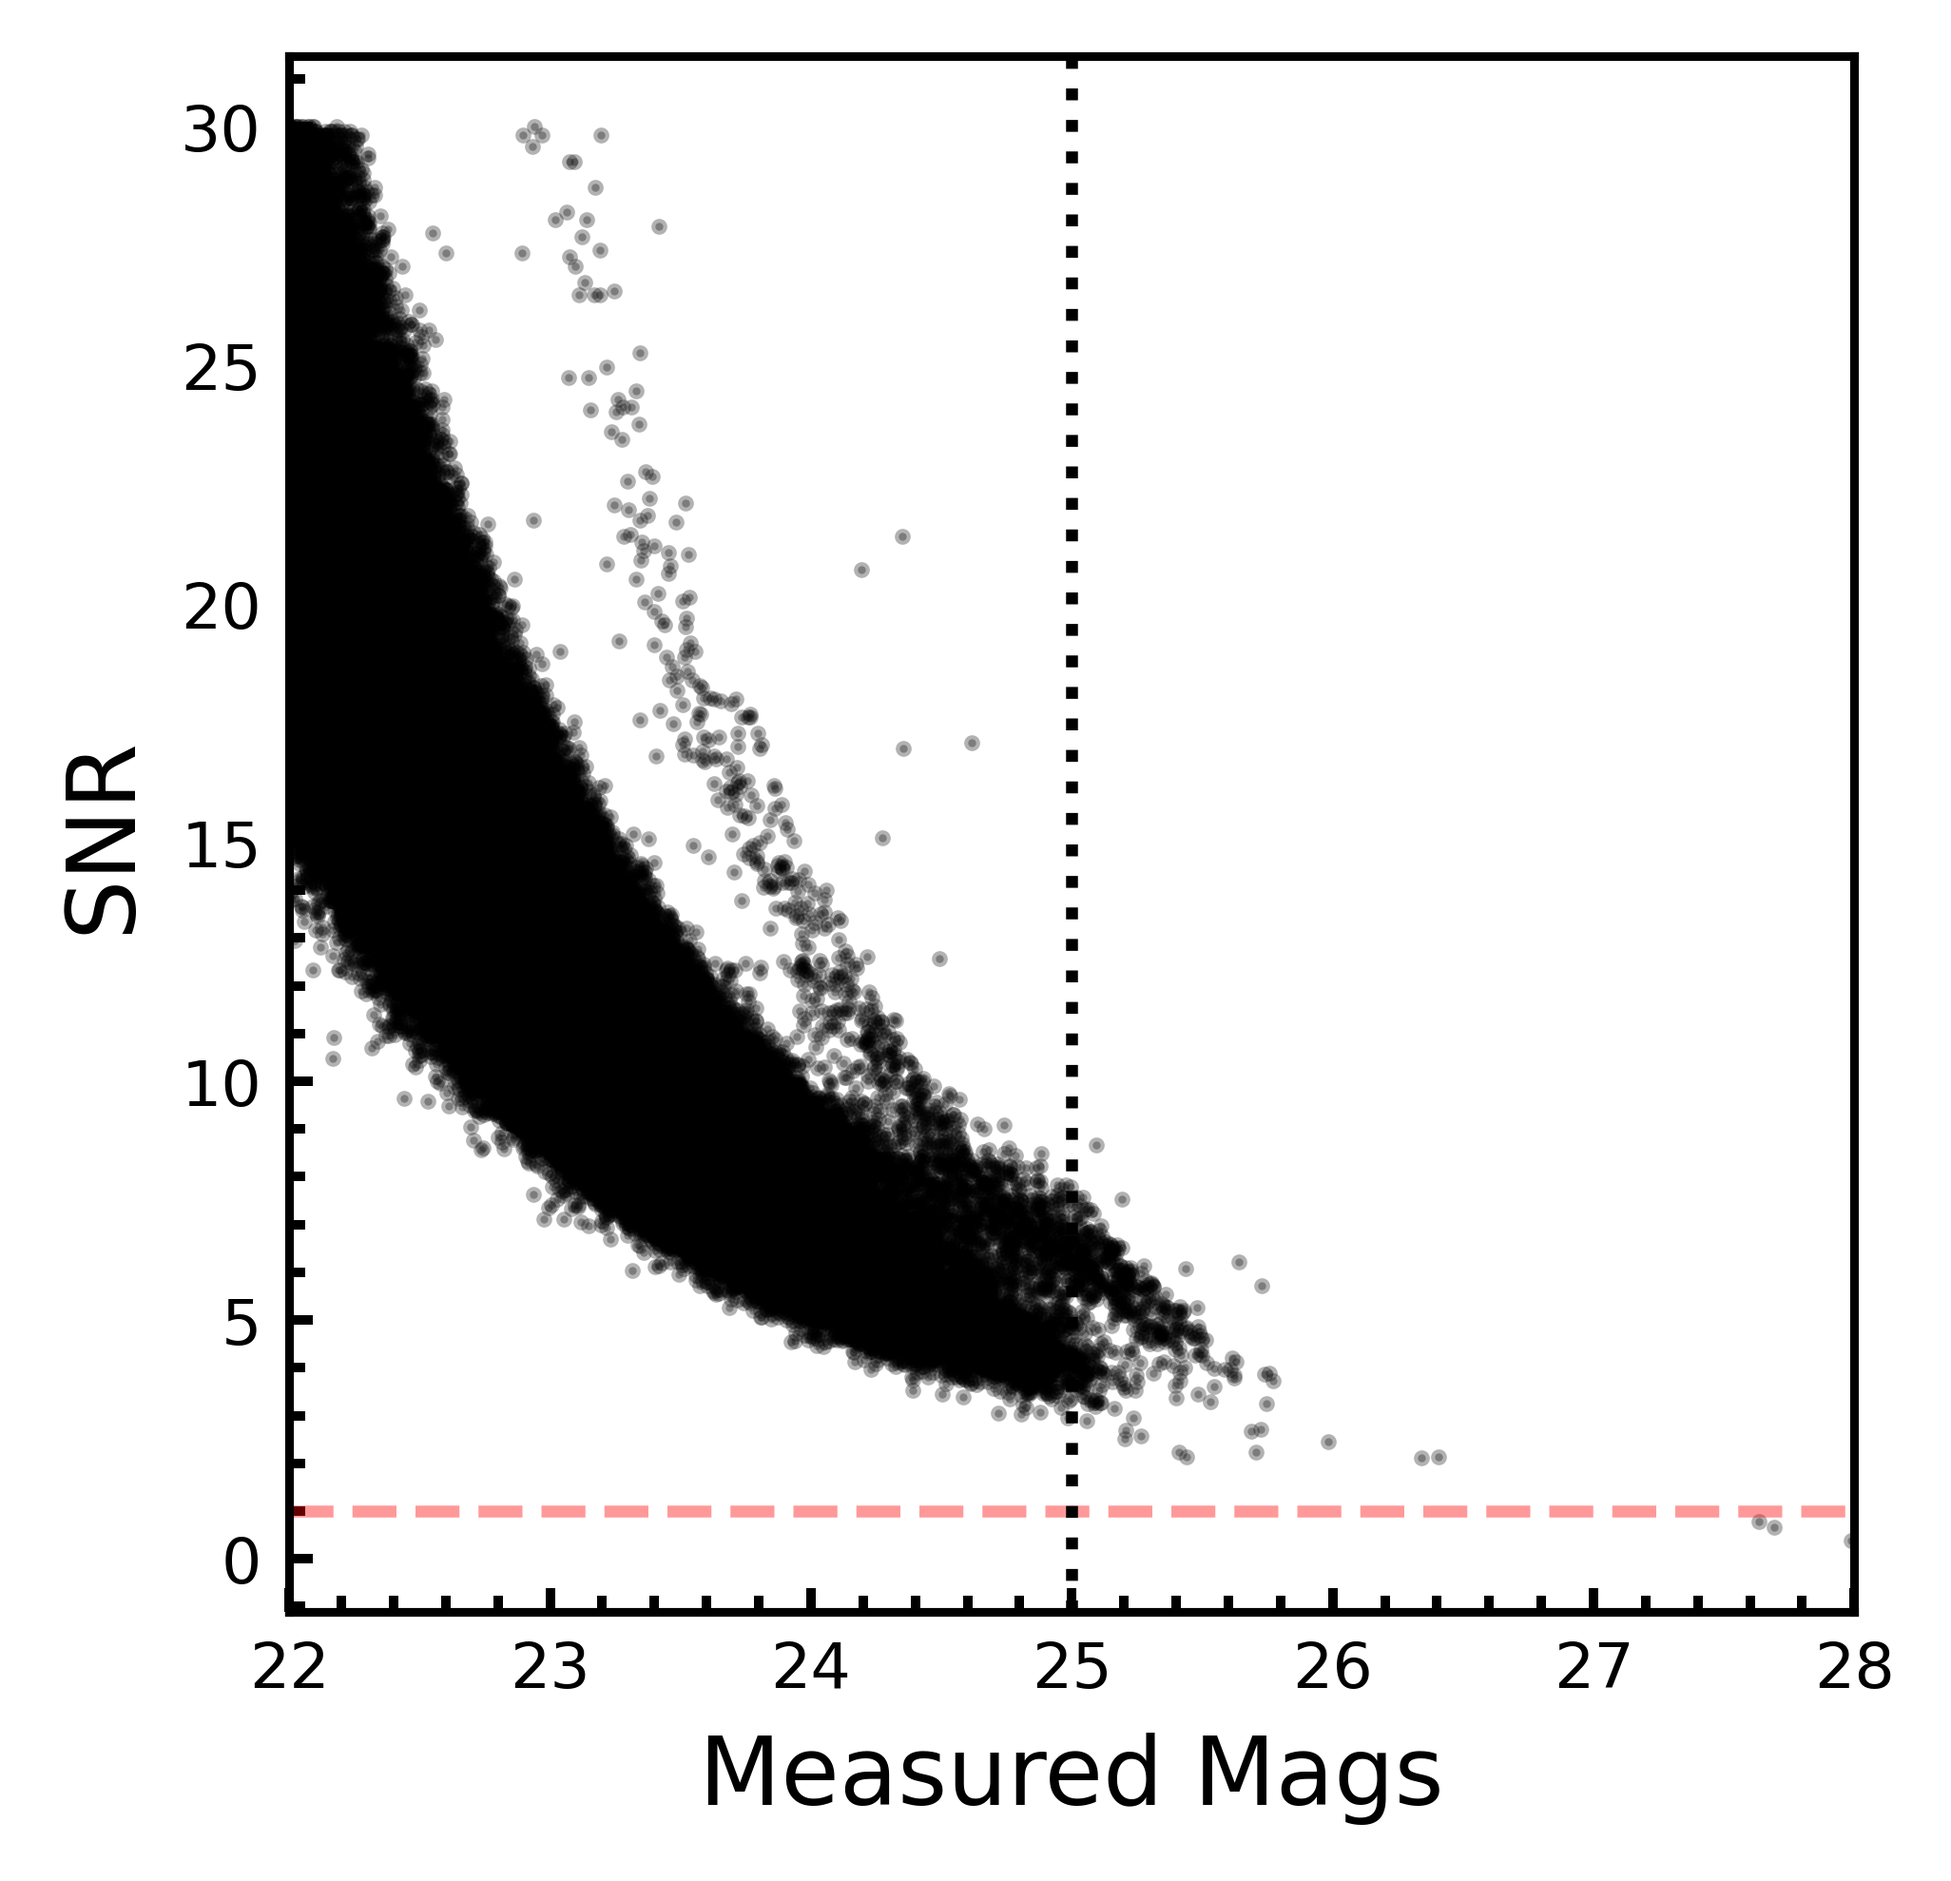
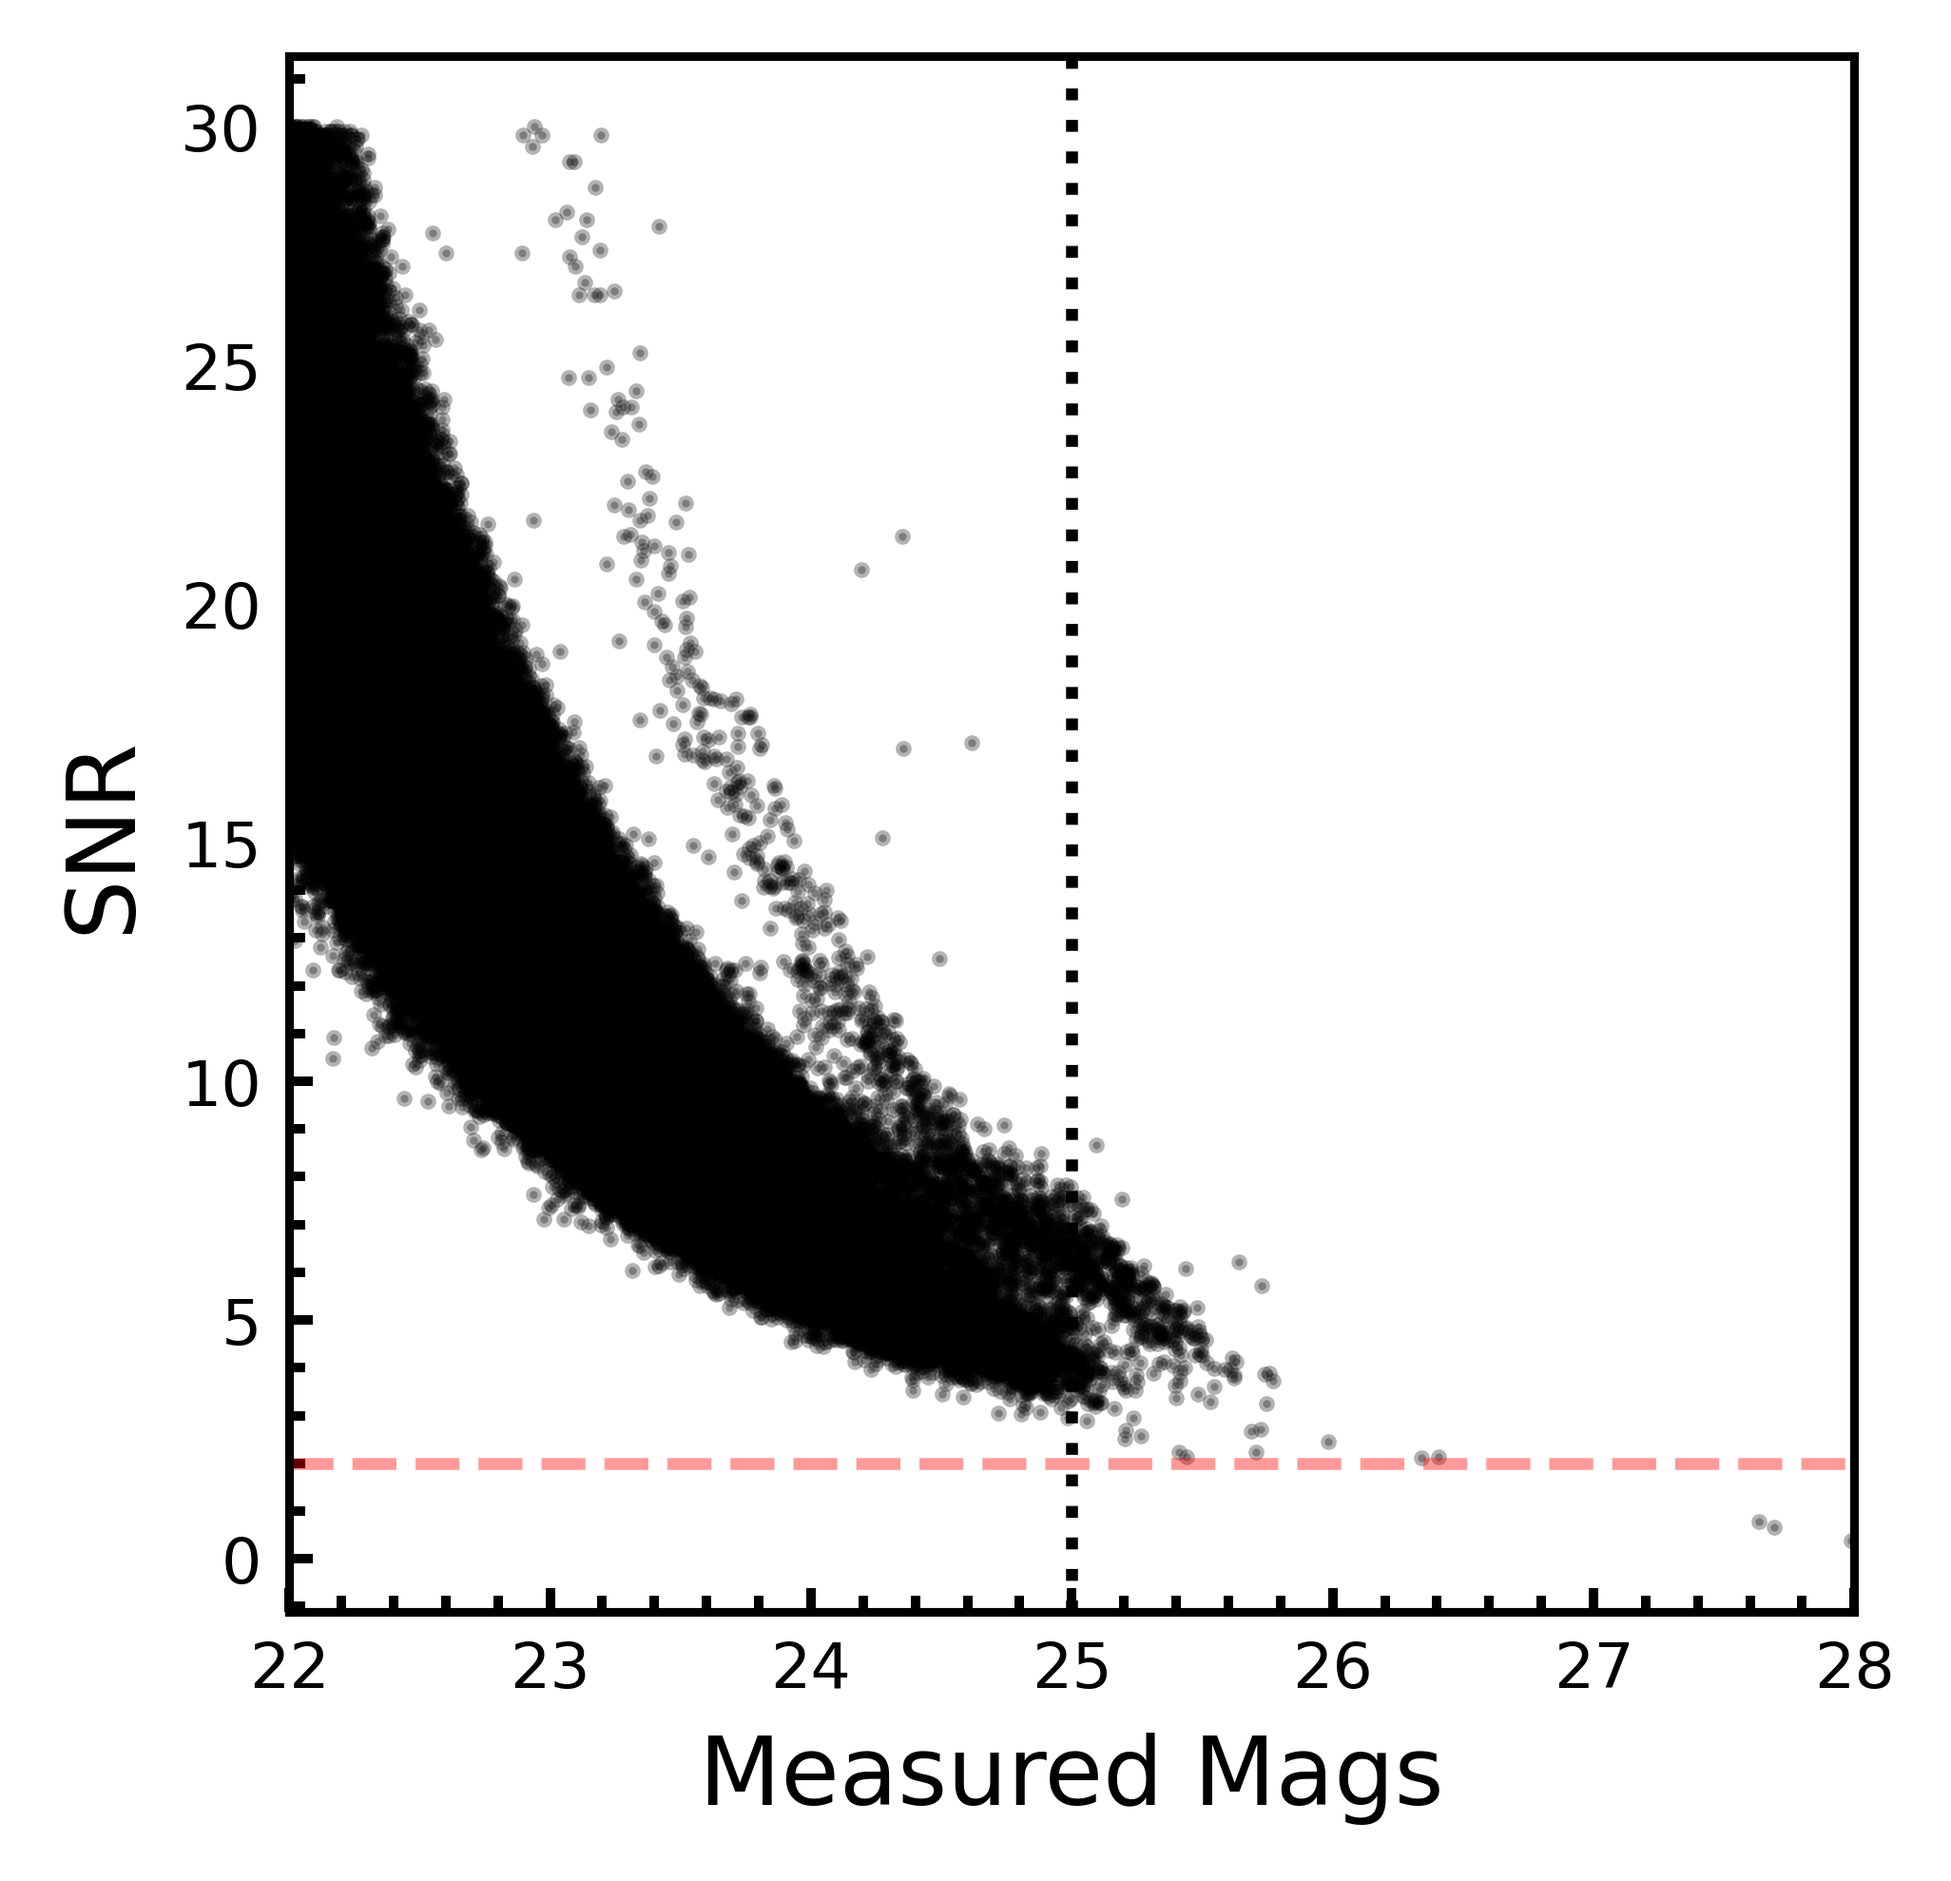
Updating candidates for ease of use.

Changed region(s): [[0.1559, 0.771, 0.9357, 0.8327]]

diff --git a/identify_candidates_v2.py b/identify_candidates_v2.py
@@ -7,14 +7,14 @@ import numpy as np
 from astropy.coordinates import SkyCoord
 import astropy.units as u
 from astropy.io import fits
+import pylab as plt
 
 import convert_sexcat_into_region as con
 import postage_stamps as ps
 from gui import start_gui
 from zero_points import zero_points
 
-#RED_LIST_NAME = 'candidates_red_list.txt'
-RED_LIST_NAME = 'candidates_red_list_cdfs.txt'
+
 
 
 def calculate_snr(mag_err: float) -> float:
@@ -46,25 +46,25 @@ def write_region_file(ra_array:np.array, dec_array:np.array, outfile:str, size:f
         file.write(f'circle {pos} {size}" # width=4\n')
     file.close()
 
-def update_candidate_red_list(ra_array: np.ndarray, dec_array: np.ndarray):
+def update_candidate_red_list(ra_array: np.ndarray, dec_array: np.ndarray, red_list: str):
     """Updates the red list of candidates which are banned from processing. (obvious artificats)"""
-    with open(RED_LIST_NAME,'a+', encoding='utf8') as file:
+    with open(red_list,'a+', encoding='utf8') as file:
         file.write('\n')
         for i, _ in enumerate(ra_array):
             file.write(f'{ra_array[i]} {dec_array[i]} \n')
 
-def get_red_values():
+def get_red_values(red_list:str):
     """Reads in the ra and dec of the red sources. (Not allowed to be used)"""
     try:
-        ra_rejected, dec_rejected = np.loadtxt(RED_LIST_NAME, unpack=True)
+        ra_rejected, dec_rejected = np.loadtxt(red_list, unpack=True)
     except (OSError, ValueError):
-        warnings.warn(f'{RED_LIST_NAME} not found or empty. Assuming there are no rejects.')
+        warnings.warn(f'{red_list} not found or empty. Assuming there are no rejects.')
         ra_rejected, dec_rejected = np.array([]), np.array([])
     return ra_rejected, dec_rejected
 
-def remove_bad_values(ra_array, dec_array):
+def remove_bad_values(ra_array: np.ndarray, dec_array: np.ndarray, red_list:str):
     """Removes the previously rejected ra and dec values from the current candidates."""
-    ra_bad, dec_bad = get_red_values()
+    ra_bad, dec_bad = get_red_values(red_list)
 
     catalog = SkyCoord(ra = ra_array*u.deg, dec = dec_array*u.deg)
     c_bad = SkyCoord(ra = ra_bad *u.deg, dec = dec_bad * u.deg)
@@ -80,28 +80,29 @@ def remove_bad_values(ra_array, dec_array):
 
 
 if __name__ == '__main__':
-    #Dont forget to select the correct candidates red list above.
     #Our data
-    #INFILE_N964 = '../correct_stacks/N964/n964.cat'
-    #INFILE_N964_135 = '../correct_stacks/N964/n964_135.cat'
-    #INFILE_I = '../correct_stacks/N964/i.cat'
-    #INFILE_Z = '../correct_stacks/N964/z.cat'
-    #IMAGES = (
-    #    '../correct_stacks/N964/i.fits',
-    #    '../correct_stacks/N964/z.fits',
-    #    '../correct_stacks/N964/n964.fits',
-    #)
+    RED_LIST_NAME = 'candidates_red_list.txt'
+    INFILE_N964 = '../correct_stacks/N964/n964.cat'
+    INFILE_N964_135 = '../correct_stacks/N964/n964_135.cat'
+    INFILE_I = '../correct_stacks/N964/i.cat'
+    INFILE_Z = '../correct_stacks/N964/z.cat'
+    IMAGES = (
+        '../correct_stacks/N964/i.fits',
+        '../correct_stacks/N964/z.fits',
+        '../correct_stacks/N964/n964.fits',
+    )
 
     #CDFS
-    INFILE_N964 = '../CDFS_LAGER/n964_cdfs.cat'
-    INFILE_N964_135 = '../CDFS_LAGER/n964_135_cdfs.cat'
-    INFILE_I = '../CDFS_LAGER/i_cdfs.cat'
-    INFILE_Z = '../CDFS_LAGER/z_cdfs.cat'
-    IMAGES = (
-    '../CDFS_LAGER/i.fits',
-    '../CDFS_LAGER/z.fits',
-    '../CDFS_LAGER/n964.fits',
-    )
+    #RED_LIST_NAME = 'candidates_red_list_cdfs.txt'
+    #INFILE_N964 = '../CDFS_LAGER/n964_cdfs.cat'
+    #INFILE_N964_135 = '../CDFS_LAGER/n964_135_cdfs.cat'
+    #INFILE_I = '../CDFS_LAGER/i_cdfs.cat'
+    #INFILE_Z = '../CDFS_LAGER/z_cdfs.cat'
+    #IMAGES = (
+    #'../CDFS_LAGER/i.fits',
+    #'../CDFS_LAGER/z.fits',
+    #'../CDFS_LAGER/n964.fits',
+    #)
 
     FITS_OBJECTS = [fits.open(image) for image in IMAGES]
 
@@ -119,7 +120,7 @@ if __name__ == '__main__':
     #2. mag > 25.8 for the i band filter.
     inst_mag_i, mag_err_i, snr_i = read_all(INFILE_I)
     mag_i = inst_mag_i + zero_points.i_band.mag_correct(1)
-    second_cut = np.where(mag_i > 27.4)[0]
+    second_cut = np.where(mag_i > 25.8)[0]
 
     #3a.  z-N964 > 1.9 and mag < 25.6 for the z filter
     inst_mag_z, mag_err_z, snr_z = read_all(INFILE_Z)
@@ -144,7 +145,7 @@ if __name__ == '__main__':
     # Visually inspecting the remaining candidates
     ra, dec = np.loadtxt(INFILE_N964, usecols=(0,1), unpack=True)
     ra, dec = ra[final_cut], dec[final_cut]
-    ra, dec = remove_bad_values(ra, dec)
+    ra, dec = remove_bad_values(ra, dec, RED_LIST_NAME)
     print(f'After removing previous rejects, count is: {len(ra)}')
 
     i_bands, z_bands, n_bands = [], [], []
@@ -157,7 +158,7 @@ if __name__ == '__main__':
     artifacts, candidates = start_gui(i_bands, z_bands, n_bands)
     ra_rejects = ra[artifacts]
     dec_rejects = dec[artifacts]
-    update_candidate_red_list(ra_rejects, dec_rejects)
+    update_candidate_red_list(ra_rejects, dec_rejects, RED_LIST_NAME)
 
     write_region_file(ra[candidates], dec[candidates], 'candidates.reg', size=8)
     with open('candidates.txt', 'w', encoding='utf8') as file:

diff --git a/plot_depth.py b/plot_depth.py
@@ -49,7 +49,7 @@ def plot_depth(sextractor_cat_name: str, zpt: float, broadband: str) -> None:
     plotting.start_plot(x_label='Measured Mags', y_label='SNR')
     #plt.pcolormesh(x_i, y_i, z_i.reshape(x_i.shape), shading='auto')
     plt.scatter(mag, signal_to_noise, s= 1, color='k', alpha=0.3)
-    plt.axhline(1, ls='--', lw=1.5, color='r', alpha=0.4)
+    plt.axhline(2, ls='--', lw=1.5, color='r', alpha=0.4)
     plt.axvline(HU_VALUES[broadband], ls = ':', color='k')
     plt.xlim(22, 28)
     plotting.end_plot(f'plots/depth_{broadband}.png')
